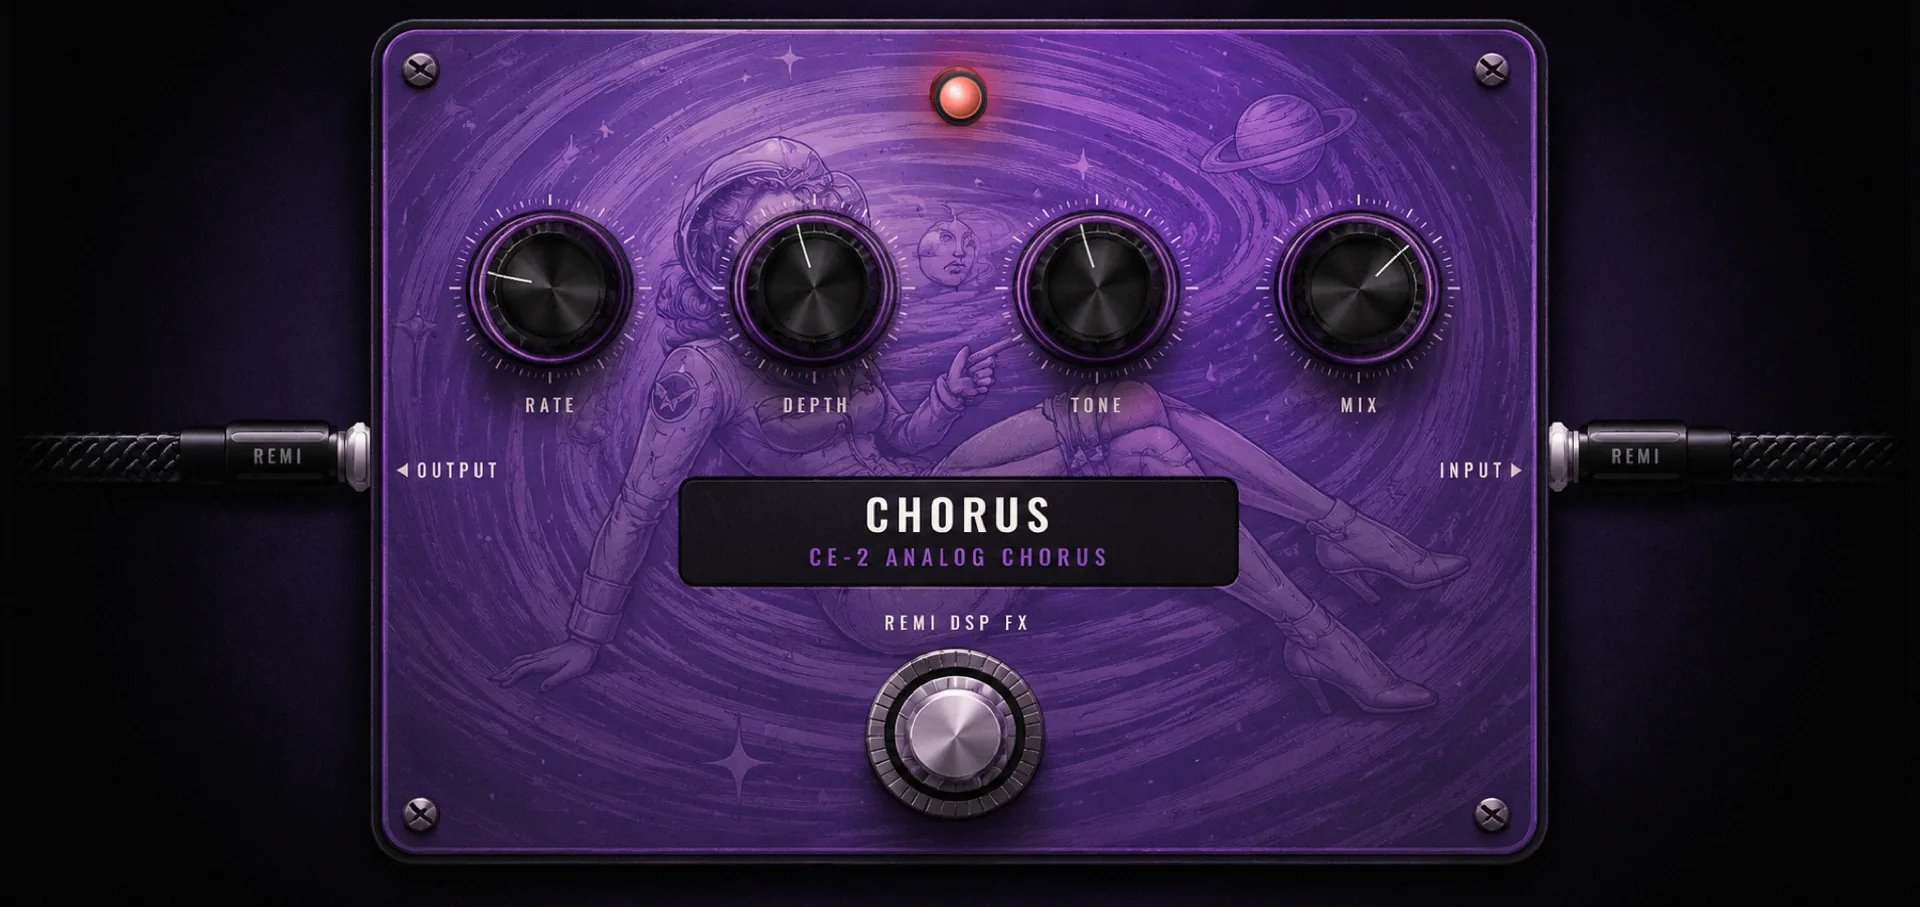
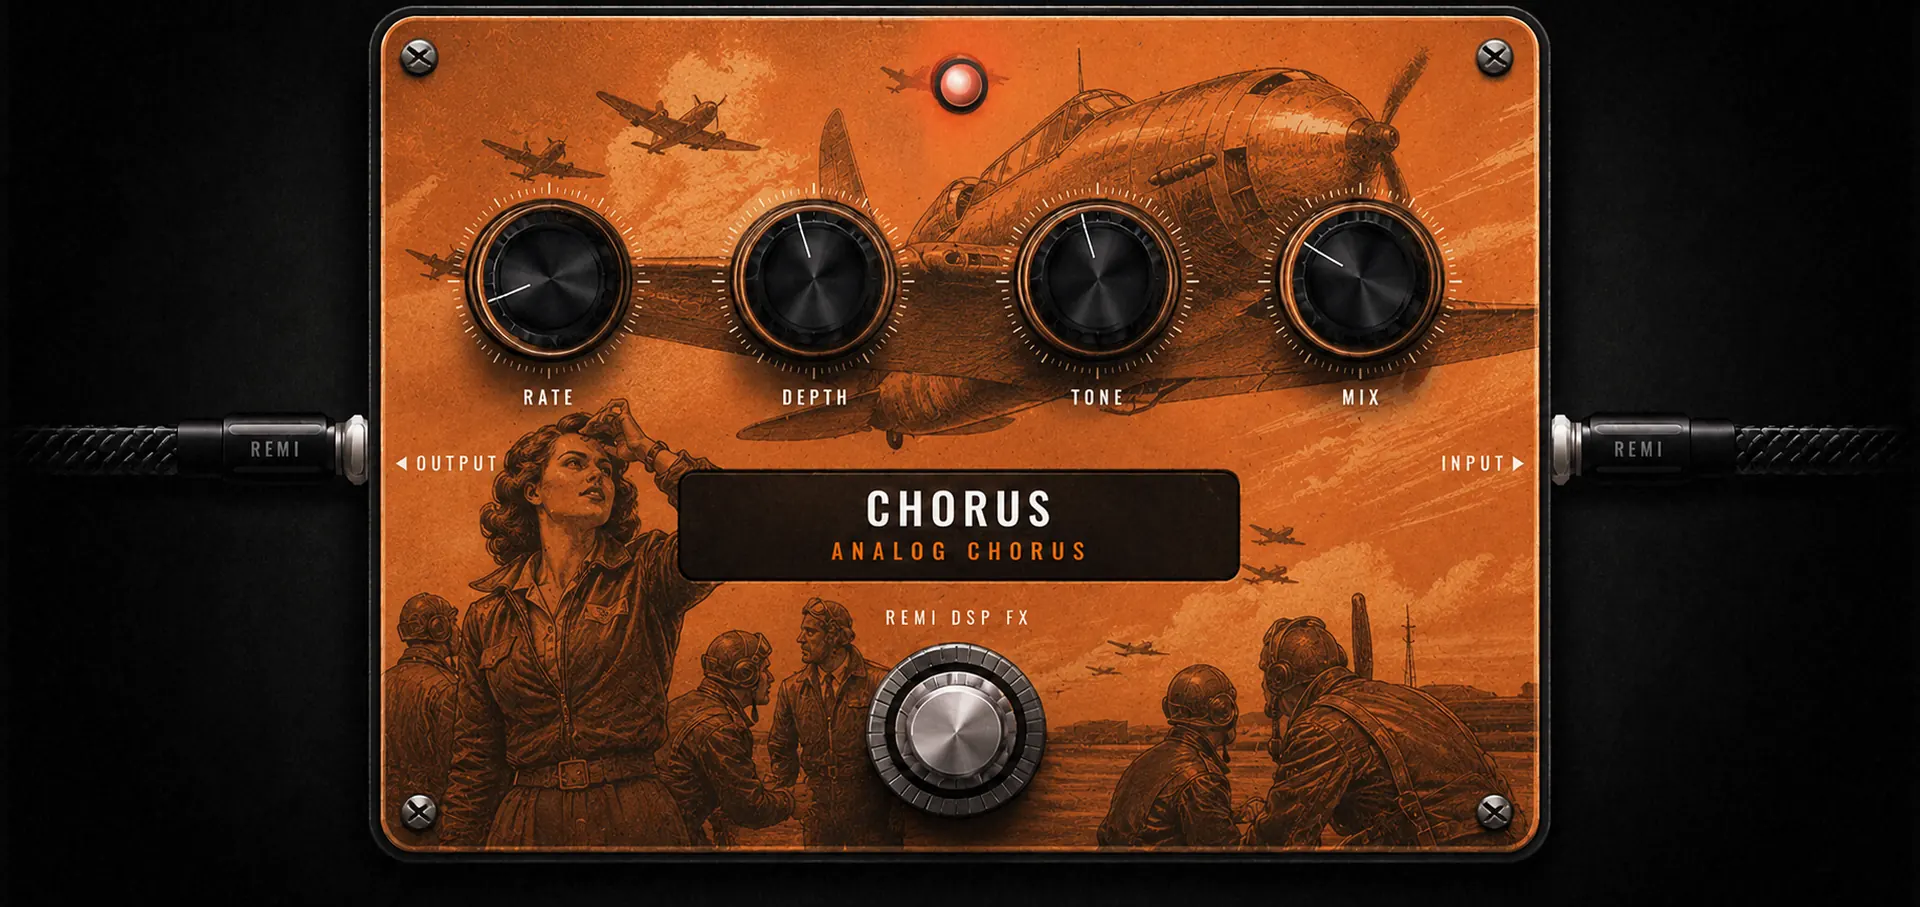
Site: the Chorus card wears the new aviation face
Swaps in the burnt-orange WWII-aviation chorus that ships in the plugin,
replacing the purple space enclosure. Built the same way as its siblings —
the raw render resized to 1920x907 — which lands the enclosure within 0.1%
of the outgoing image's footprint, so the card layout is untouched.

Two things had to follow the art or the swap reads broken: the card --tint
(the glow behind the card and the colour of its number and tag) and the
per-card page background in main.js, which would otherwise wash the room
purple behind an orange pedal as the board scrolls past.

diff --git a/guitar.html b/guitar.html
@@ -262,8 +262,8 @@
             <p>Two capture slots — a transparent overdrive and a mid-hump boost out of the box. Drop your own capture profiles straight in.</p>
           </div>
         </article>
-        <article class="pcard" style="--tint:#8b6bc0" data-card>
-          <div class="pcard__img"><img src="assets/img/chorus.webp" width="1920" height="907" loading="lazy" alt="REMI DSP Chorus pedal — purple aviator enclosure" /></div>
+        <article class="pcard" style="--tint:#c9682c" data-card>
+          <div class="pcard__img"><img src="assets/img/chorus.webp" width="1920" height="907" loading="lazy" alt="REMI DSP Chorus pedal — burnt-orange enclosure with WWII aviation artwork" /></div>
           <div class="pcard__meta">
             <span class="pcard__no led">02</span>
             <h3>Chorus</h3>

diff --git a/js/main.js b/js/main.js
@@ -163,7 +163,7 @@
   // cool seafoam, Portland's gold-on-marble, Katahdin's warm carving. Shared by
   // the home rig hero and the Maine amps section, which show the same three amps.
   const AMP_BGS   = ["#05090b", "#0b0906", "#0b0705"];
-  const CARD_BGS  = ["#0d0a04", "#0a0712", "#04100f", "#060a12"]; // drive/chorus/delay/reverb
+  const CARD_BGS  = ["#0d0a04", "#0e0704", "#04100f", "#060a12"]; // drive/chorus/delay/reverb
   const BASE_BG   = "#050506";
 
   const M = { vh: 0, docH: 1, hero: 0, stmtTop: 0, stmtH: 1,